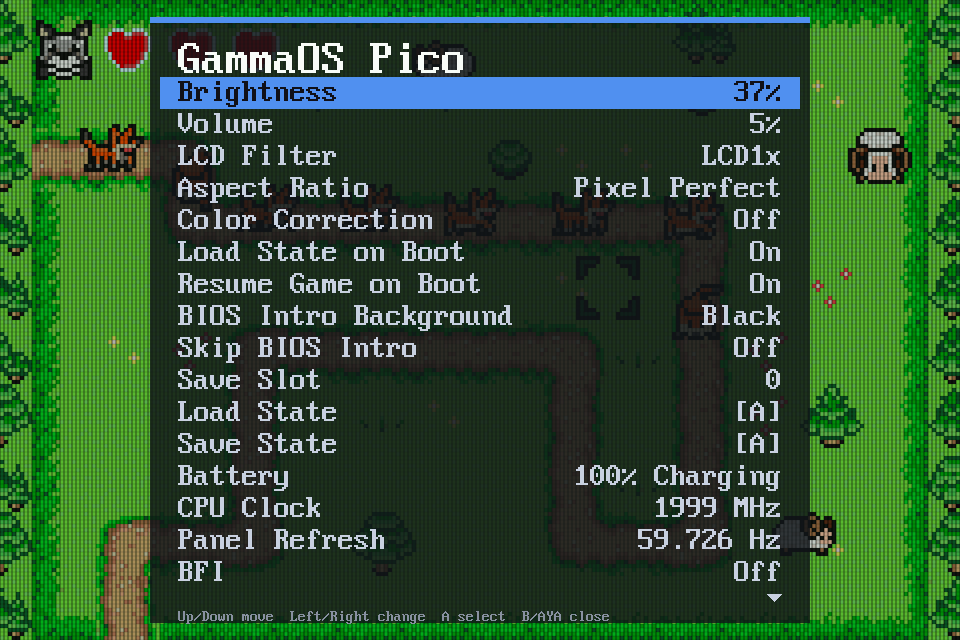
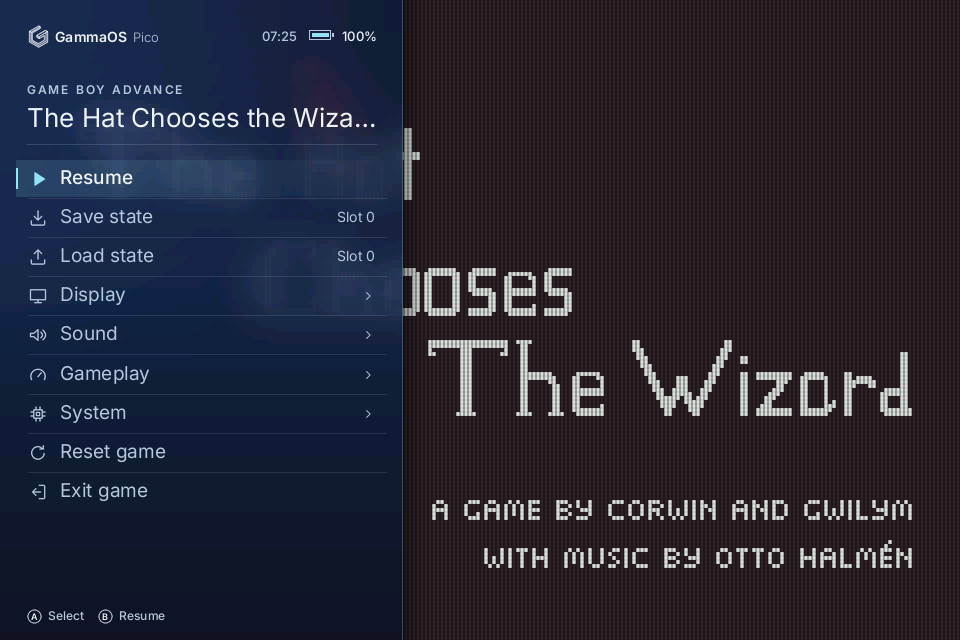
README and release notes: the new menus, screenshots, the GBA BIOS
New screenshots of the Current theme, its settings and the in-game menu
pages, two languages and the beta themes, taken with the demo games. A
reference of every menu option, for each emulator. The README, the
release notes and the card's README ask for the real Game Boy Advance
BIOS on the card, and say what is lost without it.

diff --git a/tools/ayaneo/gba/build_sdcard.py b/tools/ayaneo/gba/build_sdcard.py
@@ -33,10 +33,12 @@ BOOT_CFG = ("# GammaOS Pico boot mode for this card.\n"
             "#   boot=sd       start the GammaOS Pico menu from this card\n"
             "#   boot=android  boot Android (hold SELECT at power on to come back)\n"
             "boot=sd\n")
-BIOS_README = ("Put the Game Boy Advance BIOS here as gba_bios.bin (16384 bytes) for the GBA BIOS boot\n"
-               "intro. Without it armGBA's own Open BIOS splash is the intro and GBA games run on\n"
-               "armGBA's built-in BIOS. gpSP (when armGBA is not in cores/, or chosen in the game menu)\n"
-               "needs this file.\n")
+BIOS_README = ("Put the Game Boy Advance BIOS here as gba_bios.bin (16384 bytes): copy your own\n"
+               "console's. GBA games then run on Nintendo's own BIOS, with its boot logo and chime\n"
+               "and the exact routines the games were made against. Without it armGBA's built-in\n"
+               "replacement BIOS runs them, not every game the same way, and its own splash is the\n"
+               "intro. gpSP (when armGBA is not in cores/, or chosen in the in-game menu) needs this\n"
+               "file. The BIOS is Nintendo's and is not included.\n")
 
 
 def check_core(name, data):

diff --git a/tools/release/RELEASE_NOTES.md b/tools/release/RELEASE_NOTES.md
@@ -5,7 +5,7 @@ console starts a console menu and plays Game Boy, Game Boy Color, Game Boy Advan
 Mega Drive / Genesis, Master System, Game Gear and SG-1000 games from the card. Without the card,
 or after Boot to Android in the menu, Android starts exactly as before.
 
-![The game list](https://raw.githubusercontent.com/TheGammaSqueeze/lk-mt6785/@COMMIT_FULL@/documentation/screenshots/game-list.png)
+![Home](https://raw.githubusercontent.com/TheGammaSqueeze/lk-mt6785/@COMMIT_FULL@/documentation/screenshots/home.png)
 
 ## What makes it different
 
@@ -22,26 +22,49 @@ bootloader, before any operating system, and owns the hardware outright.
   console starts its stock Android, untouched.
 - **Everything on the card.** Emulators, settings, saves, states and box art all live on the
   microSD card. Swap the card, swap the whole setup.
-- **The good stuff from the start.** Rewind, fast forward, save states, suspend points, scanline
-  and LCD filters, colour correction and backlight black frame insertion, in a box art menu with
-  themes (Classic and GBA Indigo, picked on the Display page).
+- **The good stuff from the start.** Rewind, fast forward, save states (written to the card while
+  the game plays on), scanline and LCD filters, colour correction and backlight black frame
+  insertion, in a box art menu: the Current theme, with the Classic and GBA Indigo themes in beta.
+- **The real time.** The console's own clock runs the games that keep time (Pokemon Ruby,
+  Sapphire, Emerald, Gold, Silver and Crystal, Boktai), shows in the menus, and is set with its
+  time zone in Settings > Date & Time. Each game shows how long it has been played and when last.
+- **In your language.** The menus and the in-game menu in 17 languages: English, French, German,
+  Spanish, Italian, Dutch, Portuguese, Russian, Japanese, Korean, Simplified and Traditional
+  Chinese, Polish, Turkish, Arabic, Hebrew and Persian (Settings > Language).
+
+> **Put the real Game Boy Advance BIOS on the card.** Copy your own console's BIOS as
+> `bios/gba_bios.bin` (16 KB). GBA games then start on Nintendo's own BIOS: the original boot logo
+> and chime, and the exact BIOS routines every game was made against. Without it armGBA falls back
+> to its built-in replacement, which runs most games but not all of them the same way, and gpSP
+> (the second GBA emulator) cannot run at all. The BIOS is Nintendo's and is not included.
 
 ## Screenshots
 
-Captured on a Konkr Pocket Advance.
+Captured on a Konkr Pocket Advance from the display buffers, with the demo games from the release;
+the in-game menu shots lay its drawer over the game the way the display hardware blends them.
 
 | | |
 |---|---|
-| ![Game list with the demo games](https://raw.githubusercontent.com/TheGammaSqueeze/lk-mt6785/@COMMIT_FULL@/documentation/screenshots/demo-games.png) | ![Suspend points](https://raw.githubusercontent.com/TheGammaSqueeze/lk-mt6785/@COMMIT_FULL@/documentation/screenshots/suspend-points.png) |
-| The game list, every system in one row, with the demo games from this release | Suspend points, made when you reset a game |
-| ![Display settings](https://raw.githubusercontent.com/TheGammaSqueeze/lk-mt6785/@COMMIT_FULL@/documentation/screenshots/display.png) | ![Options](https://raw.githubusercontent.com/TheGammaSqueeze/lk-mt6785/@COMMIT_FULL@/documentation/screenshots/options.png) |
-| Display: CRT filter, 4:3 or pixel perfect, and the menu theme | Options: menu and BIOS sounds, burn-in reduction, Boot to Android |
-| ![In game](https://raw.githubusercontent.com/TheGammaSqueeze/lk-mt6785/@COMMIT_FULL@/documentation/screenshots/in-game.png) | ![The Pico menu](https://raw.githubusercontent.com/TheGammaSqueeze/lk-mt6785/@COMMIT_FULL@/documentation/screenshots/pico-menu.png) |
-| In game, with the LCD filter | The Pico menu over the game (Menu button) |
-| ![More of the Pico menu](https://raw.githubusercontent.com/TheGammaSqueeze/lk-mt6785/@COMMIT_FULL@/documentation/screenshots/pico-menu-more.png) | ![Core Settings](https://raw.githubusercontent.com/TheGammaSqueeze/lk-mt6785/@COMMIT_FULL@/documentation/screenshots/core-settings.png) |
-| Run-ahead, rewind, BFI, the live panel refresh and the core choice | Core Settings: each core's own options |
-| ![The GBA Indigo theme](https://raw.githubusercontent.com/TheGammaSqueeze/lk-mt6785/@COMMIT_FULL@/documentation/screenshots/theme-gba-indigo.png) | ![Display in GBA Indigo](https://raw.githubusercontent.com/TheGammaSqueeze/lk-mt6785/@COMMIT_FULL@/documentation/screenshots/theme-gba-indigo-display.png) |
-| The GBA Indigo theme | The Display page in GBA Indigo, with the Theme row |
+| ![Home](https://raw.githubusercontent.com/TheGammaSqueeze/lk-mt6785/@COMMIT_FULL@/documentation/screenshots/home.png) | ![Game library](https://raw.githubusercontent.com/TheGammaSqueeze/lk-mt6785/@COMMIT_FULL@/documentation/screenshots/library.png) |
+| Home: the systems on the card, with the date, the time and the battery | A system's library: box art, how long each game has been played and when last |
+| ![Recently played](https://raw.githubusercontent.com/TheGammaSqueeze/lk-mt6785/@COMMIT_FULL@/documentation/screenshots/recent.png) | ![Settings](https://raw.githubusercontent.com/TheGammaSqueeze/lk-mt6785/@COMMIT_FULL@/documentation/screenshots/settings.png) |
+| Resume: the games played most recently | Settings |
+| ![Date and time](https://raw.githubusercontent.com/TheGammaSqueeze/lk-mt6785/@COMMIT_FULL@/documentation/screenshots/date-time.png) | ![BIOS boot](https://raw.githubusercontent.com/TheGammaSqueeze/lk-mt6785/@COMMIT_FULL@/documentation/screenshots/bios-boot.png) |
+| Date & Time: the console's clock and time zone, which the games' clocks run on | BIOS Boot: the Game Boy Advance start-up screen |
+| ![Japanese](https://raw.githubusercontent.com/TheGammaSqueeze/lk-mt6785/@COMMIT_FULL@/documentation/screenshots/language-ja.png) | ![Arabic](https://raw.githubusercontent.com/TheGammaSqueeze/lk-mt6785/@COMMIT_FULL@/documentation/screenshots/language-ar.png) |
+| In Japanese | In Arabic, written right to left |
+| ![In game](https://raw.githubusercontent.com/TheGammaSqueeze/lk-mt6785/@COMMIT_FULL@/documentation/screenshots/in-game.png) | ![The in-game menu](https://raw.githubusercontent.com/TheGammaSqueeze/lk-mt6785/@COMMIT_FULL@/documentation/screenshots/pico-menu.png) |
+| In game (Tobu Tobu Girl Deluxe, LCD filter) | The in-game menu over the game (Menu button) |
+| ![Display page](https://raw.githubusercontent.com/TheGammaSqueeze/lk-mt6785/@COMMIT_FULL@/documentation/screenshots/pico-menu-display.png) | ![Gameplay page](https://raw.githubusercontent.com/TheGammaSqueeze/lk-mt6785/@COMMIT_FULL@/documentation/screenshots/pico-menu-gameplay.png) |
+| Display: brightness, filters, aspect ratio, colour correction, BFI | Gameplay: CPU clock, run-ahead, rewind, the GBA core, the live panel refresh |
+| ![Core options](https://raw.githubusercontent.com/TheGammaSqueeze/lk-mt6785/@COMMIT_FULL@/documentation/screenshots/core-options.png) | ![System page](https://raw.githubusercontent.com/TheGammaSqueeze/lk-mt6785/@COMMIT_FULL@/documentation/screenshots/pico-menu-system.png) |
+| armGBA's own options | System: resume, the BIOS intro and the battery |
+| ![Game Boy Color display page](https://raw.githubusercontent.com/TheGammaSqueeze/lk-mt6785/@COMMIT_FULL@/documentation/screenshots/pico-menu-gbc.png) | ![Theme setting](https://raw.githubusercontent.com/TheGammaSqueeze/lk-mt6785/@COMMIT_FULL@/documentation/screenshots/settings-theme.png) |
+| A Game Boy Color game's Display page: palette, colour correction, dark filter | Picking a theme |
+| ![Classic theme](https://raw.githubusercontent.com/TheGammaSqueeze/lk-mt6785/@COMMIT_FULL@/documentation/screenshots/theme-classic.png) | ![Classic theme display page](https://raw.githubusercontent.com/TheGammaSqueeze/lk-mt6785/@COMMIT_FULL@/documentation/screenshots/theme-classic-display.png) |
+| The Classic theme (beta) | Its Display page, with the themes |
+| ![GBA Indigo theme](https://raw.githubusercontent.com/TheGammaSqueeze/lk-mt6785/@COMMIT_FULL@/documentation/screenshots/theme-gba-indigo.png) | |
+| The GBA Indigo theme (beta) | |
 
 ## Buttons
 
@@ -71,6 +94,67 @@ In a game:
 In the game list, START plays, SELECT sorts and X switches between systems. During the boot logo,
 hold B to skip it; the volume wheel works there too.
 
+## The menus
+
+Everything GammaOS Pico can set, as it is laid out on the console (the Current theme, the default).
+Every menu is in the language chosen in Settings.
+
+### Home
+
+| Tab | What it holds |
+|---|---|
+| Games | the systems on the card, each with its console and logo; Left / Right move between systems, A opens a system's library (its games with their box art, how long each has been played and when last), where L / R page through a long list |
+| Resume | the games played most recently, newest first, to carry on with one press |
+| Settings | the console settings below |
+
+L and R switch between the tabs, A picks and B goes back. The header shows the menu you are in,
+the date, the time and the battery.
+
+### Settings
+
+| Row | Values |
+|---|---|
+| Brightness | the backlight, 0 to 100 % |
+| Volume | 0 to 100 % |
+| Black Frame Insertion | Off, 25 %, 50 %, 75 %: the backlight strobes for sharper motion |
+| Theme | Current; Classic and GBA Indigo (beta). A applies |
+| Colour | Blue, Violet, Crimson, Amber, Emerald, Graphite |
+| Language | the 17 languages. A applies |
+| Date & Time | a page: Year, Month, Day, Hour, Minute (the console's clock, which Android shares), Time zone (UTC-12:00 to UTC+14:00 in quarter hours), 24-hour clock |
+| BIOS Boot | a page: Skip BIOS Intro, BIOS Intro Background (Black or White), Mute BIOS Audio, BIOS Intro on Resume |
+| Game Resume | a page: Resume on Power On (switching off in a game saves your place and the next power on goes straight back), Resume on Game Open (opening a game carries on where you left it; hold B while opening to start afresh) |
+| Boot to Android | restarts the console into Android; hold SELECT at power on to come back |
+
+### In a game
+
+The Menu button opens the in-game menu over the game. Its first page: Resume, Save state and Load
+state (Left / Right pick the slot), the Display, Sound, Gameplay and System pages, Reset game and
+Exit game. The pages hold what each emulator offers:
+
+| Page | Game Boy Advance | Game Boy / Game Boy Color | SNES | Mega Drive, Master System, Game Gear, SG-1000 |
+|---|---|---|---|---|
+| Display | Brightness, LCD Filter, Aspect Ratio, Color Correction, BFI, Show FPS | Brightness, LCD Filter, Aspect Ratio, Palette (original Game Boy), Color Correction, Correction Mode, Dark Filter, BFI, Show FPS | Brightness, LCD Filter, Aspect Ratio, Overscan, Hi-Res Blend, BFI, Show FPS | Brightness, Aspect Ratio, LCD Filter, BFI, Show FPS |
+| Sound | Volume | Volume | Volume, Audio Filter | Volume |
+| Gameplay | CPU Clock, Run-Ahead, Rewind, Benchmark, GBA Core (armGBA or gpSP), Core options, Latency LED, Panel Refresh | CPU Clock, Run-Ahead, Rewind | CPU Clock, Run-Ahead, Rewind, Turbo (auto-fire), Benchmark, Panel Refresh | CPU Clock, Run-Ahead, Rewind, Region, Refresh Rate |
+| System | Resume on Power On, Resume on Game Open, BIOS Intro Background, Skip BIOS Intro, Battery | Resume on Power On, Battery | Resume on Power On, Battery | Resume on Power On, Battery |
+
+armGBA's Core options: BIOS (Nintendo from the card, or armGBA's built-in), LCD Ghosting, Interlaced
+Rows, Audio Low-Pass Filter, Solar Sensor (for Boktai).
+
+The values: LCD Filter Off, Scanlines, LCD Grid, Dot Matrix, LCD1x, LCD3x (Genesis: Grid, Grid+);
+Aspect Ratio Stretch, Fit, Pixel Perfect (SNES 4:3, Pixel, NTSC, PAL, Stretch; Genesis Pixel, Core,
+Stretch, 4:3, Square, 16:9); Run-Ahead Off, Balanced, Responsive, Max; Overscan Crop 8, 12 or 16 px
+or Off; Audio Filter Linear, Gaussian, Cubic, Sinc, None; Hi-Res Blend Off, Merge, Blur; Turbo Off,
+A, B, A+B; Region Auto, USA, Europe, Japan.
+
+### Classic theme (beta)
+
+The SNES Classic style carousel, with its own pages from the top bar: Display (CRT filter, 4:3 or
+pixel perfect, and the Theme row), Options (Mute BIOS Audio, Mute Menu Audio, burn-in reduction,
+Boot to Android),
+Language (English, French, German, Spanish, Italian, Dutch, Portuguese, Russian; the others leave
+it in English), Legal notices and the manual. Suspend points are made when you reset a game.
+
 ## Downloads
 
 - **gammaos-pico-kpa-@VERSION@-flash.zip**: the LK for `lk_a` and `lk_b`, to install GammaOS Pico and to go
@@ -86,8 +170,9 @@ hold B to skip it; the volume wheel works there too.
    (V6 `.xml` or v5 `.txt` scatter, mode Download Only, only `lk_a` and `lk_b` ticked); on Linux
    `mtkclient/flash_gammaos.sh` with [mtkclient](https://github.com/bkerler/mtkclient).
 2. Copy the sdcard package's contents to a microSD card, put it in and power on.
-3. Optional: put your own Game Boy Advance BIOS on the card as `bios/gba_bios.bin` for the original
-   boot logo; without it armGBA's own Open BIOS splash plays.
+3. Put your own Game Boy Advance BIOS on the card as `bios/gba_bios.bin` (16 KB). GBA games then
+   run on Nintendo's own BIOS, with the original boot logo; without it armGBA falls back to its
+   built-in replacement, which not every game runs the same way on, and gpSP cannot run.
 
 To go back, flash `spflash/stock/` or run `mtkclient/flash_stock.sh` the same way.
 

diff --git a/README.md b/README.md
@@ -30,31 +30,49 @@ bootloader, before any operating system, and owns the hardware outright.
   console starts its stock Android, untouched.
 - **Everything on the card.** Emulators, settings, saves, states and box art all live on the
   microSD card. Swap the card, swap the whole setup.
-- **The good stuff from the start.** Rewind, fast forward, save states, suspend points, scanline
-  and LCD filters, colour correction and backlight black frame insertion, in a box art menu with
-  themes (Current, and Classic and GBA Indigo in beta, picked in Settings or on the classic
-  theme's Display page).
+- **The good stuff from the start.** Rewind, fast forward, save states (written to the card while
+  the game plays on), scanline and LCD filters, colour correction and backlight black frame
+  insertion, in a box art menu: the Current theme, with the Classic and GBA Indigo themes in beta.
+- **The real time.** The console's own clock runs the games that keep time (Pokemon Ruby,
+  Sapphire, Emerald, Gold, Silver and Crystal, Boktai), shows in the menus, and is set with its
+  time zone in Settings > Date & Time. Each game shows how long it has been played and when last.
 - **In your language.** The menus and the in-game menu in 17 languages: English, French, German,
   Spanish, Italian, Dutch, Portuguese, Russian, Japanese, Korean, Simplified and Traditional
   Chinese, Polish, Turkish, Arabic, Hebrew and Persian (Settings > Language).
 
+> **Put the real Game Boy Advance BIOS on the card.** Copy your own console's BIOS as
+> `bios/gba_bios.bin` (16 KB). GBA games then start on Nintendo's own BIOS: the original boot logo
+> and chime, and the exact BIOS routines every game was made against. Without it armGBA falls back
+> to its built-in replacement, which runs most games but not all of them the same way, and gpSP
+> (the second GBA emulator) cannot run at all. The BIOS is Nintendo's and is not included.
+
 ## Screenshots
 
-Captured on a Konkr Pocket Advance from the display buffers; the Pico menu shots lay its overlay over
-the game the way the display hardware blends them.
+Captured on a Konkr Pocket Advance from the display buffers, with the demo games from the release;
+the in-game menu shots lay its drawer over the game the way the display hardware blends them.
 
 | | |
 |---|---|
-| ![Game list with the demo games](documentation/screenshots/demo-games.png) | ![Suspend points](documentation/screenshots/suspend-points.png) |
-| The game list, every system in one row, with the demo games from the release | Suspend points, made when you reset a game |
-| ![Display settings](documentation/screenshots/display.png) | ![Options](documentation/screenshots/options.png) |
-| Display: CRT filter, 4:3 or pixel perfect, and the menu theme | Options: menu and BIOS sounds, burn-in reduction, Boot to Android |
-| ![In game](documentation/screenshots/in-game.png) | ![The Pico menu](documentation/screenshots/pico-menu.png) |
-| In game, with the LCD filter | The Pico menu over the game (Menu button) |
-| ![More of the Pico menu](documentation/screenshots/pico-menu-more.png) | ![Core Settings](documentation/screenshots/core-settings.png) |
-| Run-ahead, rewind, BFI, the live panel refresh and the core choice | Core Settings: each core's own options |
-| ![The GBA Indigo theme](documentation/screenshots/theme-gba-indigo.png) | ![Display in GBA Indigo](documentation/screenshots/theme-gba-indigo-display.png) |
-| The GBA Indigo theme | The Display page in GBA Indigo, with the Theme row |
+| ![Home](documentation/screenshots/home.png) | ![Game library](documentation/screenshots/library.png) |
+| Home: the systems on the card, with the date, the time and the battery | A system's library: box art, how long each game has been played and when last |
+| ![Recently played](documentation/screenshots/recent.png) | ![Settings](documentation/screenshots/settings.png) |
+| Resume: the games played most recently | Settings |
+| ![Date and time](documentation/screenshots/date-time.png) | ![BIOS boot](documentation/screenshots/bios-boot.png) |
+| Date & Time: the console's clock and time zone, which the games' clocks run on | BIOS Boot: the Game Boy Advance start-up screen |
+| ![Japanese](documentation/screenshots/language-ja.png) | ![Arabic](documentation/screenshots/language-ar.png) |
+| In Japanese | In Arabic, written right to left |
+| ![In game](documentation/screenshots/in-game.png) | ![The in-game menu](documentation/screenshots/pico-menu.png) |
+| In game (Tobu Tobu Girl Deluxe, LCD filter) | The in-game menu over the game (Menu button) |
+| ![Display page](documentation/screenshots/pico-menu-display.png) | ![Gameplay page](documentation/screenshots/pico-menu-gameplay.png) |
+| Display: brightness, filters, aspect ratio, colour correction, BFI | Gameplay: CPU clock, run-ahead, rewind, the GBA core, the live panel refresh |
+| ![Core options](documentation/screenshots/core-options.png) | ![System page](documentation/screenshots/pico-menu-system.png) |
+| armGBA's own options | System: resume, the BIOS intro and the battery |
+| ![Game Boy Color display page](documentation/screenshots/pico-menu-gbc.png) | ![Theme setting](documentation/screenshots/settings-theme.png) |
+| A Game Boy Color game's Display page: palette, colour correction, dark filter | Picking a theme |
+| ![Classic theme](documentation/screenshots/theme-classic.png) | ![Classic theme display page](documentation/screenshots/theme-classic-display.png) |
+| The Classic theme (beta) | Its Display page, with the themes |
+| ![GBA Indigo theme](documentation/screenshots/theme-gba-indigo.png) | |
+| The GBA Indigo theme (beta) | |
 
 ## Buttons
 
@@ -73,7 +91,7 @@ In a game:
 
 | Button | Does |
 |---|---|
-| Menu | the Pico menu (save and load states, filters, settings); hold 1.5 s to go back to the game list |
+| Menu | the in-game menu (save and load states, filters, settings); hold 1.5 s to go back to the menu |
 | R2 | fast forward on / off |
 | L2 | rewind on / off |
 | SELECT + START + L + R (hold) | restart the game |
@@ -81,8 +99,69 @@ In a game:
 | X / Y | autofire B / A |
 | Power (hold 1.2 s) | save and switch off |
 
-In the game list, START plays, SELECT sorts and X switches between systems. During the boot logo,
-hold B to skip it; the volume wheel works there too.
+In the Classic theme's game list, START plays, SELECT sorts and X switches between systems. During
+the boot logo, hold B to skip it; the volume wheel works there too.
+
+## The menus
+
+Everything GammaOS Pico can set, as it is laid out on the console (the Current theme, the default).
+Every menu is in the language chosen in Settings.
+
+### Home
+
+| Tab | What it holds |
+|---|---|
+| Games | the systems on the card, each with its console and logo; Left / Right move between systems, A opens a system's library (its games with their box art, how long each has been played and when last), where L / R page through a long list |
+| Resume | the games played most recently, newest first, to carry on with one press |
+| Settings | the console settings below |
+
+L and R switch between the tabs, A picks and B goes back. The header shows the menu you are in,
+the date, the time and the battery.
+
+### Settings
+
+| Row | Values |
+|---|---|
+| Brightness | the backlight, 0 to 100 % |
+| Volume | 0 to 100 % |
+| Black Frame Insertion | Off, 25 %, 50 %, 75 %: the backlight strobes for sharper motion |
+| Theme | Current; Classic and GBA Indigo (beta). A applies |
+| Colour | Blue, Violet, Crimson, Amber, Emerald, Graphite |
+| Language | the 17 languages. A applies |
+| Date & Time | a page: Year, Month, Day, Hour, Minute (the console's clock, which Android shares), Time zone (UTC-12:00 to UTC+14:00 in quarter hours), 24-hour clock |
+| BIOS Boot | a page: Skip BIOS Intro, BIOS Intro Background (Black or White), Mute BIOS Audio, BIOS Intro on Resume |
+| Game Resume | a page: Resume on Power On (switching off in a game saves your place and the next power on goes straight back), Resume on Game Open (opening a game carries on where you left it; hold B while opening to start afresh) |
+| Boot to Android | restarts the console into Android; hold SELECT at power on to come back |
+
+### In a game
+
+The Menu button opens the in-game menu over the game. Its first page: Resume, Save state and Load
+state (Left / Right pick the slot), the Display, Sound, Gameplay and System pages, Reset game and
+Exit game. The pages hold what each emulator offers:
+
+| Page | Game Boy Advance | Game Boy / Game Boy Color | SNES | Mega Drive, Master System, Game Gear, SG-1000 |
+|---|---|---|---|---|
+| Display | Brightness, LCD Filter, Aspect Ratio, Color Correction, BFI, Show FPS | Brightness, LCD Filter, Aspect Ratio, Palette (original Game Boy), Color Correction, Correction Mode, Dark Filter, BFI, Show FPS | Brightness, LCD Filter, Aspect Ratio, Overscan, Hi-Res Blend, BFI, Show FPS | Brightness, Aspect Ratio, LCD Filter, BFI, Show FPS |
+| Sound | Volume | Volume | Volume, Audio Filter | Volume |
+| Gameplay | CPU Clock, Run-Ahead, Rewind, Benchmark, GBA Core (armGBA or gpSP), Core options, Latency LED, Panel Refresh | CPU Clock, Run-Ahead, Rewind | CPU Clock, Run-Ahead, Rewind, Turbo (auto-fire), Benchmark, Panel Refresh | CPU Clock, Run-Ahead, Rewind, Region, Refresh Rate |
+| System | Resume on Power On, Resume on Game Open, BIOS Intro Background, Skip BIOS Intro, Battery | Resume on Power On, Battery | Resume on Power On, Battery | Resume on Power On, Battery |
+
+armGBA's Core options: BIOS (Nintendo from the card, or armGBA's built-in), LCD Ghosting, Interlaced
+Rows, Audio Low-Pass Filter, Solar Sensor (for Boktai).
+
+The values: LCD Filter Off, Scanlines, LCD Grid, Dot Matrix, LCD1x, LCD3x (Genesis: Grid, Grid+);
+Aspect Ratio Stretch, Fit, Pixel Perfect (SNES 4:3, Pixel, NTSC, PAL, Stretch; Genesis Pixel, Core,
+Stretch, 4:3, Square, 16:9); Run-Ahead Off, Balanced, Responsive, Max; Overscan Crop 8, 12 or 16 px
+or Off; Audio Filter Linear, Gaussian, Cubic, Sinc, None; Hi-Res Blend Off, Merge, Blur; Turbo Off,
+A, B, A+B; Region Auto, USA, Europe, Japan.
+
+### Classic theme (beta)
+
+The SNES Classic style carousel, with its own pages from the top bar: Display (CRT filter, 4:3 or
+pixel perfect, and the Theme row), Options (Mute BIOS Audio, Mute Menu Audio, burn-in reduction,
+Boot to Android),
+Language (English, French, German, Spanish, Italian, Dutch, Portuguese, Russian; the others leave
+it in English), Legal notices and the manual. Suspend points are made when you reset a game.
 
 ## Install
 
@@ -90,7 +169,9 @@ Grab the latest [release](https://github.com/TheGammaSqueeze/lk-mt6785/releases)
 package writes the GammaOS Pico LK to `lk_a` and `lk_b` with SP Flash Tool (Windows) or mtkclient
 (Linux), both of which work on a stock console with a locked bootloader, or with fastboot once
 GammaOS Pico is installed. The SD card package goes on a FAT32 or exFAT card as it is: menu,
-emulators and a set of freely licensed demo games with box art. Each package has a README.
+emulators and a set of freely licensed demo games with box art. Each package has a README. Then
+add the Game Boy Advance BIOS as `bios/gba_bios.bin` (see above) and your own games to
+`roms/<system>/`.
 
 ## Build from source
 

diff --git a/documentation/konkr-pocket-advance.md b/documentation/konkr-pocket-advance.md
@@ -61,13 +61,18 @@ the root and add games.
 
 ```
 /gammaos/boot.cfg        boot=sd (start GammaOS Pico) or boot=android (one key per line, # comments)
-/gammaos/menu.pack       the menu assets (compressed)
+/gammaos/menu.pack       the Classic and GBA Indigo themes' menu (compressed)
+/gammaos/current-<W>x<H>.pack, current-igm-<W>x<H>.pack   the Current theme and its in-game menu
+/gammaos/lang-<code>-<W>x<H>.pack   a language's texts and the glyphs it needs (one per language)
+/gammaos/recent.txt      the games played most recently (written by the LK)
+/gammaos/playtime.txt    each game's play time and when it was last played (written by the LK)
 /gammaos/settings.bin    the settings (written by the LK; /gba/settings.bin is still read once)
 /gammaos/cart_header.bin the last game's header, so the intro starts at once (written by the LK)
 /gammaos/blackbox.bin    fault and event records moved here from DRAM (oem blackbox)
 /cores/armgba-pico.blob  /cores/gpsp-pico.blob  /cores/gambatte-pico.blob
 /cores/snes9x-pico.blob  /cores/genesis-plus-gx-pico.blob
-/bios/gba_bios.bin       optional GBA BIOS, exactly 16384 bytes (/gba_bios.bin is read too)
+/bios/gba_bios.bin       the GBA BIOS, exactly 16384 bytes: put your own here (/gba_bios.bin is read
+                         too); without it armGBA runs on its built-in replacement, gpSP not at all
 /roms/gb/*.gb            /roms/gbc/*.gbc        /roms/gba/*.gba
 /roms/snes/*.sfc|.smc    /roms/genesis/*.md|.gen|.bin|.smd
 /roms/sms/*.sms          /roms/gg/*.gg          /roms/sg/*.sg      (raw files, not zips)
